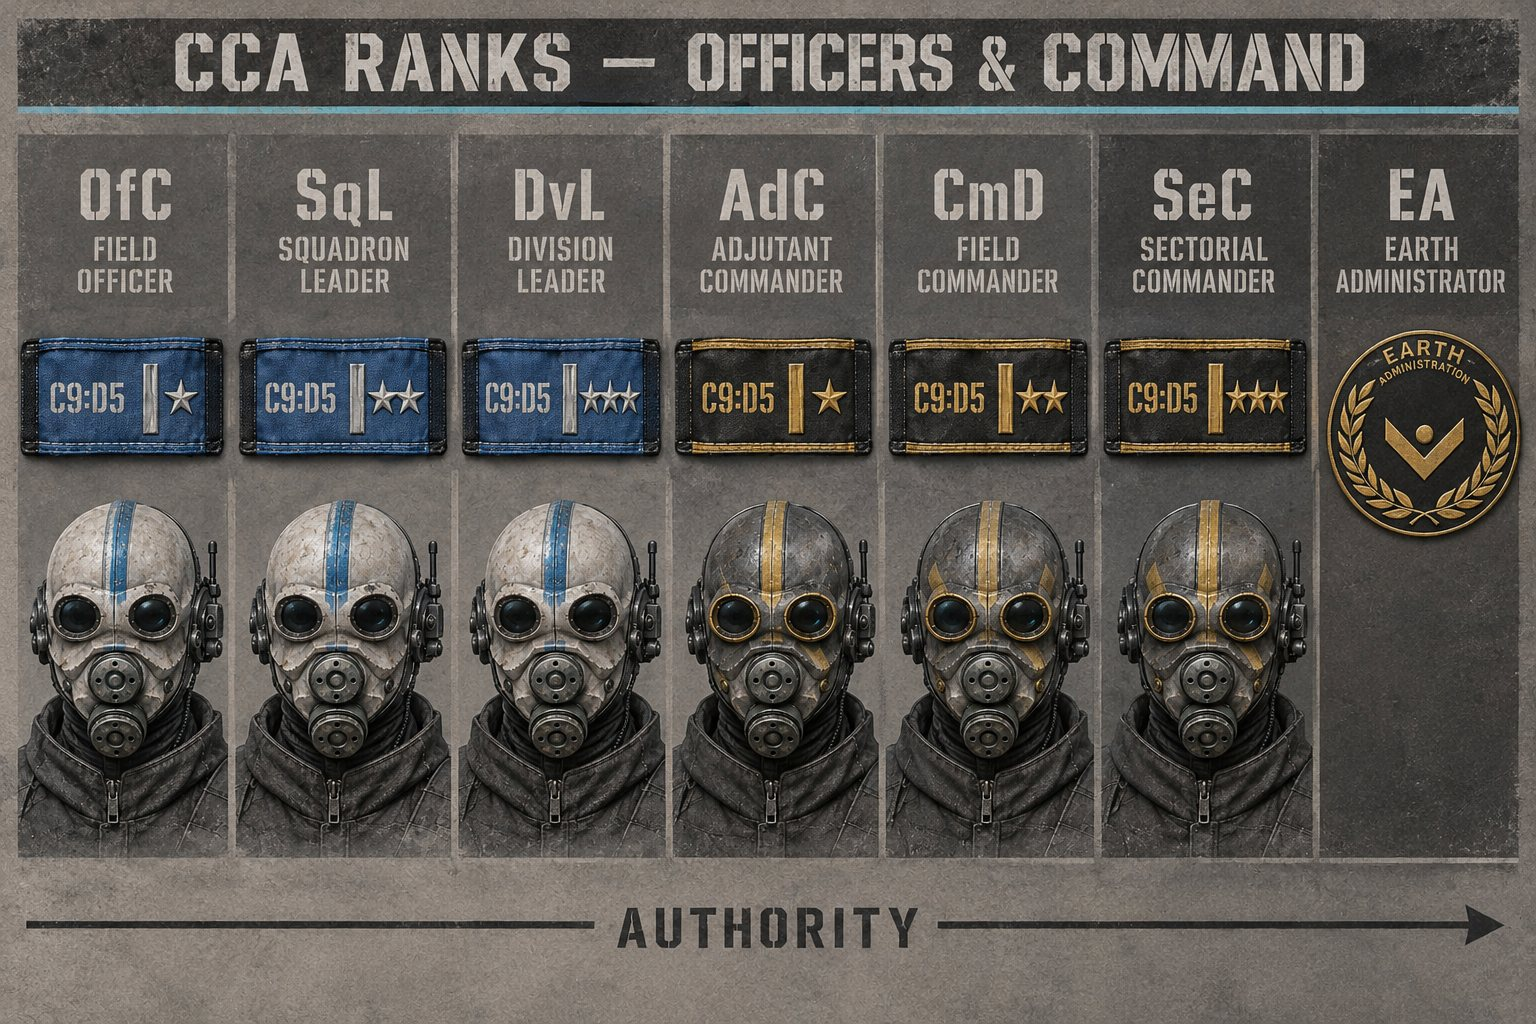
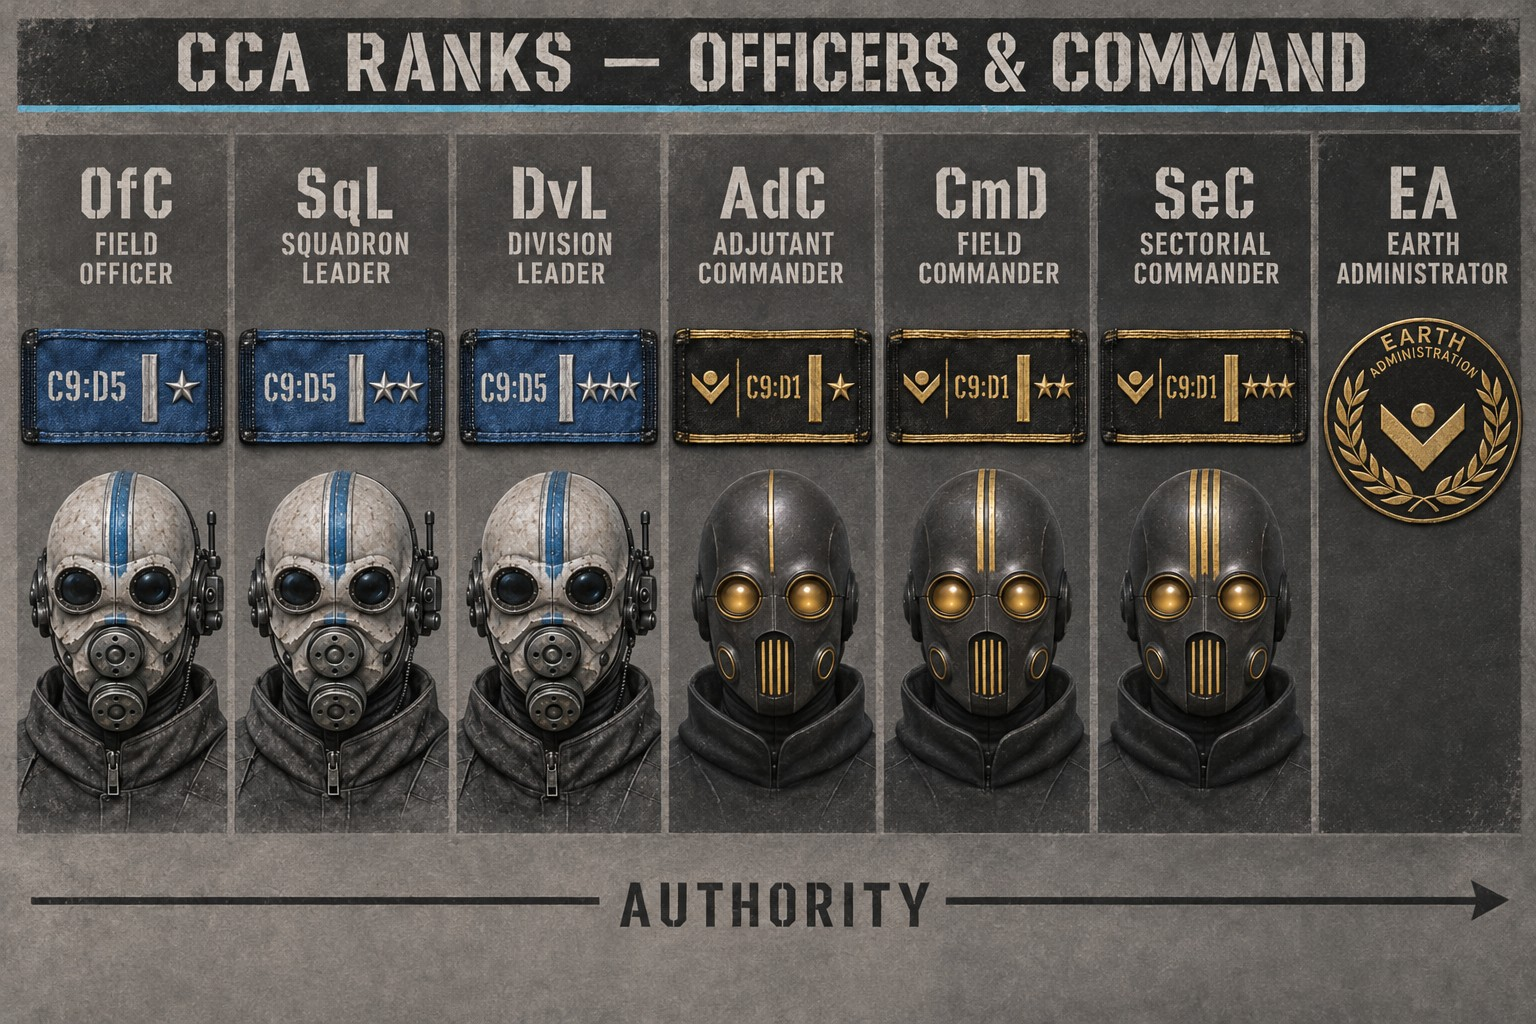
High Command art: command sheet, new ranks-command, Vigil Rev 2, Ledger
- command-sheet (H1) in the CCA Hierarchy codex; ranks-command redone with
  the new command helmet
- Vigil's portrait and designation: CCA.C9.D1-HC-CmD-00417; chapter 3
  describes the new helmet
- Ledger gets her own portrait in the JURY file scenes

Claude-Session: https://claude.ai/code/session_01FPxW8sjExYByq8Hjg1f5Jc

diff --git a/js/content/chapter3.js b/js/content/chapter3.js
@@ -8,7 +8,7 @@
   const pick = G.pick;
   const DIVS = ['UNION', 'JURY', 'HELIX', 'RAZOR', 'SPEAR', 'VECTOR', 'GRID'];
 
-  G.PEOPLE.vigil = { name: '"Vigil"', role: 'OA CmD · Task Force LOCK', img: 'vigil' };
+  G.PEOPLE.vigil = { name: '"Vigil"', role: 'HC CmD · Task Force LOCK', img: 'vigil' };
   G.PEOPLE.katya = G.PEOPLE.katya || { name: 'Katya', role: 'Canal Quarter', img: 'katya' };
   G.PEOPLE.tinker = G.PEOPLE.tinker || { name: 'The Tinker', role: 'Repairman · Bazaar Row', img: 'tinker' };
   G.PEOPLE.ilse = G.PEOPLE.ilse || { name: 'Ilse Marek', role: 'Fellow recruit', img: 'ilse' };
@@ -122,8 +122,8 @@
         '@img assets/img/env/e04-nexus.webp|The Nexus',
         'Every division in City 9 is in the hall at once, which you have never seen: the white bands of HELIX, the gold of RAZOR, crimson, orange, chemical green, copper. And along the back wall, not in rows, not at ease, a squad of Overwatch soldiers in grey armour with a single cyan slit for a face.',
         '@img assets/img/ota-soldier.webp|Overwatch infantry, C9 deployment',
-        'On the platform stands a unit you have only seen in photographs. Graphite mask with a gold crest. A black armband trimmed in gold: one wide gold bar, two gold stars. **CCA.C9.D1-OA-CmD-00417.** The Academy calls the Field Commander *Vigil*, because nobody has ever seen the Commander sleep.',
-        '@portrait assets/img/portraits/vigil.webp|CCA.C9.D1-OA-CmD-00417 — "Vigil"',
+        'On the platform stands a unit you have only seen in photographs. Not the bone-white mask the rest of you wear: a long graphite shell, two eyes glowing gold deep in their sockets, a grille of gold slats where a filter should be, two thin gold lines over the crown and a crack across it mended in gold. A black armband trimmed in gold: one wide gold bar, two gold stars. **CCA.C9.D1-HC-CmD-00417.** High Command. The Academy calls the Field Commander *Vigil*, because nobody has ever seen the Commander sleep.',
+        '@portrait assets/img/portraits/vigil.webp|CCA.C9.D1-HC-CmD-00417 — "Vigil"',
         '@say Vigil|You will have heard rumours about City 17. Forget them. City 17 is not your concern. *This* city is. When one city coughs, the Union checks the others for fever.',
         '@say Vigil|The canal cells have a phrase on their frequencies this week: *the long night*. They intend one night without power. We intend that they do not get it. You are Task Force LOCK. Every division. One chain of command, and at the top of it, until sociostatus is lifted, Overwatch.',
         `@sys Your division’s post on the night: **${post(s)}**.`,
@@ -136,7 +136,7 @@
       ],
     },
     c3_0_ask: {
-      text: ['The hall goes still. Vigil’s graphite mask turns toward you, slowly.', '@say Vigil|Reprisal. Proportional, documented, and administered by Civil Protection, under Overwatch observation. That is why you will make sure it does not come.', 'It is the most honest answer anyone in a gold crest has ever given you. That is what frightens you about it.'],
+      text: ['The hall goes still. Vigil’s graphite mask turns toward you, slowly.', '@say Vigil|Reprisal. Proportional, documented, and administered by Civil Protection, under Overwatch observation. That is why you will make sure it does not come.', 'It is the most honest answer anyone behind a gold grille has ever given you. That is what frightens you about it.'],
       choices: [{ t: 'Muster.', fx: adv(0, { merit: 1, cons: 1 }), go: 'c3_0_end' }],
     },
     c3_0_ask_bad: {

diff --git a/js/content/codex.js b/js/content/codex.js
@@ -55,7 +55,7 @@ G.addCodex({
   },
   hierarchy: {
     title: 'CCA Hierarchy',
-    body: `<img src="assets/img/ranks-enlisted.webp" alt="Ranks: recruit to elite" loading="lazy"><img src="assets/img/ranks-command.webp" alt="Ranks: officers and command" loading="lazy"><table>
+    body: `<img src="assets/img/ranks-enlisted.webp" alt="Ranks: recruit to elite" loading="lazy"><img src="assets/img/ranks-command.webp" alt="Ranks: officers and command" loading="lazy"><img src="assets/img/command-sheet.webp" alt="High Command: helmet, uniform and insignia" loading="lazy"><table>
       <tr><td>EA</td><td>Earth Administrator</td></tr>
       <tr><td>SeC</td><td>Sectorial Commander</td></tr>
       <tr><td>CmD</td><td>Field Commander</td></tr>
@@ -71,7 +71,7 @@ G.addCodex({
       <tr><td>05</td><td>05 Protection Unit</td></tr>
       <tr><td>RcT</td><td>Recruit</td></tr>
     </table>
-    <p><b>Insignia</b> are worn on the armband. Protection grades carry thin silver bars — one for an 05, five for an 01. An EpU carries a single thick bar. Officers add silver stars: one for OfC, two for SqL, three for DvL. Command ranks from AdC upward wear black armbands trimmed in gold, with gold bars and stars, and graphite helmets with gold crests. The Earth Administrator wears no armband at all.</p>
+    <p><b>Insignia</b> are worn on the armband. Protection grades carry thin silver bars — one for an 05, five for an 01. An EpU carries a single thick bar. Officers add silver stars: one for OfC, two for SqL, three for DvL. Command ranks from AdC upward stand above the divisions. They are <b>High Command</b>, and their designations say so: <i>CCA.C9.D1-HC-CmD-00417</i>. They wear black armbands trimmed in gold, with gold bars and stars, a long black greatcoat, and a helmet of their own: an elongated graphite shell, eyes glowing gold in deep sockets, a gold-slatted grille instead of a filter, and one, two or three gold lines over the crown for AdC, CmD and SeC. The Earth Administrator wears no armband at all.</p>
     <p>Promotion through the 05–01 grades is earned by merit and field evaluation. Above 01, by selection — and by surviving the people who also want the post.</p>`,
   },
   divisions: {

diff --git a/js/content/jfile.js b/js/content/jfile.js
@@ -16,8 +16,8 @@
     informant: { name: 'INFORMANT REPORT', how: 'Discredit the informant', skill: 'deception', diff: 10 },
     log: { name: 'ACCESS LOG', how: 'Edit the log', skill: 'comms', diff: 5 },
   };
-  G.PEOPLE.ledger = { name: '"Ledger"', role: 'JURY SqL · internal files', img: 'unit-jury-ofc' };
-  const LEDGER = '@portrait assets/img/portraits/unit-jury-ofc.webp|CCA.C9.D1-JURY-SqL-20488 — "Ledger"';
+  G.PEOPLE.ledger = { name: '"Ledger"', role: 'JURY SqL · internal files', img: 'ledger' };
+  const LEDGER = '@portrait assets/img/portraits/ledger.webp|CCA.C9.D1-JURY-SqL-20488 — "Ledger"';
 
   const J = (s) => {
     s.jf = s.jf || { ev: [], n: 0, met: false, open: false, burnDay: -99 };

diff --git a/sw.js b/sw.js
@@ -1,6 +1,6 @@
 /* Service worker: makes the game installable and playable offline.
    VERSION is a hash of the cached files: run python3 tools/bump-sw.py after changing code (the tests check it). */
-const VERSION = 'c9-8fc5706e58';
+const VERSION = 'c9-2025b40e3d';
 const MEDIA = 'c9-media-2'; /* images and fonts: kept across code updates (bumped once: v1 never refreshed replaced art) */
 const SHELL = [
   './',

diff --git a/docs/style-sheet.md b/docs/style-sheet.md
@@ -1819,7 +1819,7 @@ Prompterna K1 Wick, K2 Vesna, K3 Halvorsen, K4 Lida Koval, E17 Magistratens kont
 
 | Bild | Fil i spelet | Bifoga i ordning | Designation |
 |---|---|---|---|
-| K5 Vigil | `portraits/vigil.jpg` | 1 portraits/mira · 2 ranks-command · 3 uniform-oa | CCA.C9.D1-OA-CmD-00417, brett guldstreck + 2 guldstjärnor |
+| K5 Vigil | `portraits/vigil.jpg` | (Rev 2, se 5v) | CCA.C9.D1-HC-CmD-00417, brett guldstreck + 2 guldstjärnor |
 | E20 Kopplingsrum 7 | `env/e20-junction.jpg` | 1 uniform-grid · 2 spire-ref · 3 env/e01-city | |
 | E21 Dammkrönet i gryningen | `env/e21-damcrest.jpg` | 1 env/e01-city · 2 uniform-razor · 3 ota-soldier · 4 flag-city09 | |
 
@@ -1994,7 +1994,7 @@ Rangnamn (kanon i spelet): **AdC Adjutant Commander · CmD Field Commander · Se
 | R3 Rev 2 Officerare och ledning | `ranks-command.jpg` | 1 ranks-command (gamla, layout) · 2 H1 · 3 ref/sql-helmet |
 | K5 Vigil Rev 2 | `portraits/vigil.jpg` | 1 portraits/vigil (gamla, utsnitt och kappa) · 2 H1 |
 
-När Vigil Rev 2 är inlagd byts hennes beteckning i spelet till `CCA.C9.D1-HC-CmD-00417`, och beskrivningen av hjälmen i kapitel 3 uppdateras.
+**Klara (2026-11-15):** H1 (`command-sheet.jpg`, i codex-posten CCA Hierarchy), R3 Rev 2 (`ranks-command.jpg` ersatt) och Vigil Rev 2 är inlagda. Vigils beteckning är nu `CCA.C9.D1-HC-CmD-00417` i spelet, och kapitel 3 beskriver den nya hjälmen. K12 Ledger är också inlagd (`portraits/ledger.jpg`).
 
 ## 5j. NYA DIVISIONER: VECTOR, GRID, VEIL
 
